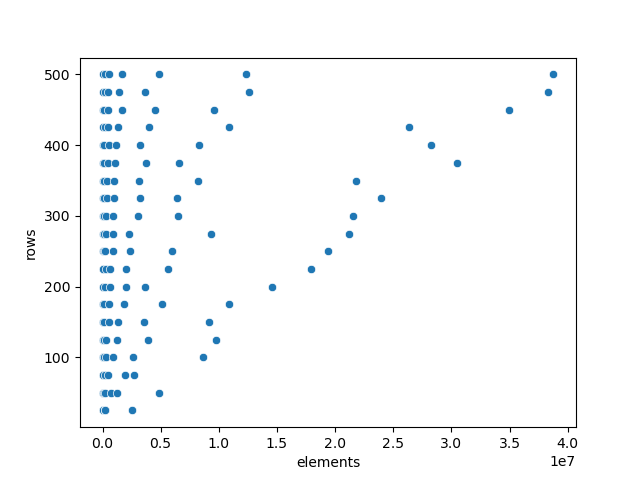
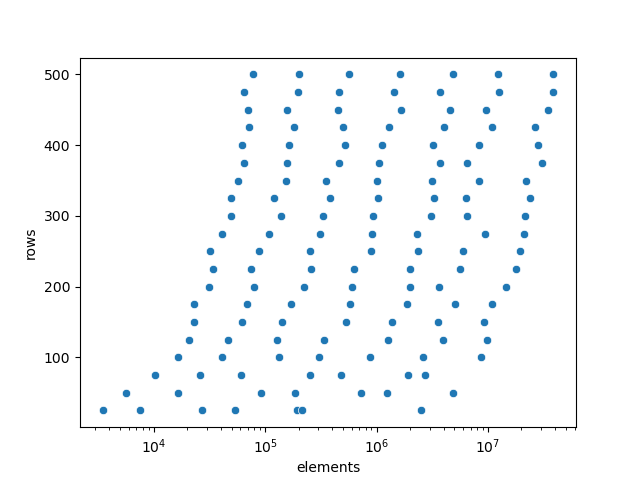
Small improvements in the analysis files

diff --git a/src/gain_over_effort.py b/src/gain_over_effort.py
@@ -11,13 +11,18 @@ gain = [
 print(gain)
 
 x = [0, 0.2, 0.4, 0.8, 1, 1]
+xl = [xi + 0.025 for xi in x]
+xl[-3] = x[-3] - 0.32
+xl[-2] = x[-2] - 0.07
+xl[-1] = x[-1] - 0.29
 with plt.xkcd():
     plt.figure(figsize=[8, 6])
     for i in range(0, len(x)):
-        plt.scatter(x[i], gain[i], c=spc_args[labels[i]]["color"], label=spc_args[labels[i]]["label"])
+        plt.scatter(x[i], gain[i], c=spc_args[labels[i]]["color"])
+        plt.annotate(spc_args[labels[i]]["label"], (xl[i], gain[i]))
     plt.xticks([0, 1], ['Small','High'])
     plt.yticks([1, 10, 20, 30, 40])
     plt.xlabel('Effort')
     plt.ylabel('Average speedup over pure Python')
-    plt.legend()
+    # plt.legend()
     plt.savefig("out/plots/gain-over-effort.png")

diff --git a/src/run_analysis.py b/src/run_analysis.py
@@ -19,6 +19,7 @@ plt.savefig("out/plots/histogram.png")
 
 plt.figure()
 sns.scatterplot(df.elements, df.rows)
+plt.xscale('log')
 plt.savefig("out/plots/rows-vs-elements.png")
 
 # These plots compare the language time over the number of elements.

diff --git a/README.md b/README.md
@@ -54,7 +54,7 @@ docker build --tag jl-from-py:<VERSION>
 - Run it with
 
   ```shell
-  docker run --rm --volume "$PWD/dataset:/app/dataset" --volume "$PWD/out:/app/out" jl-from-py:0.3.0 --max-num-files 0
+  docker run --rm --volume "$PWD/dataset:/app/dataset" --volume "$PWD/out:/app/out" jl-from-py:0.3.1 --max-num-files 0
   ```
 - You will find the outputs in the `out/` folder.
 
